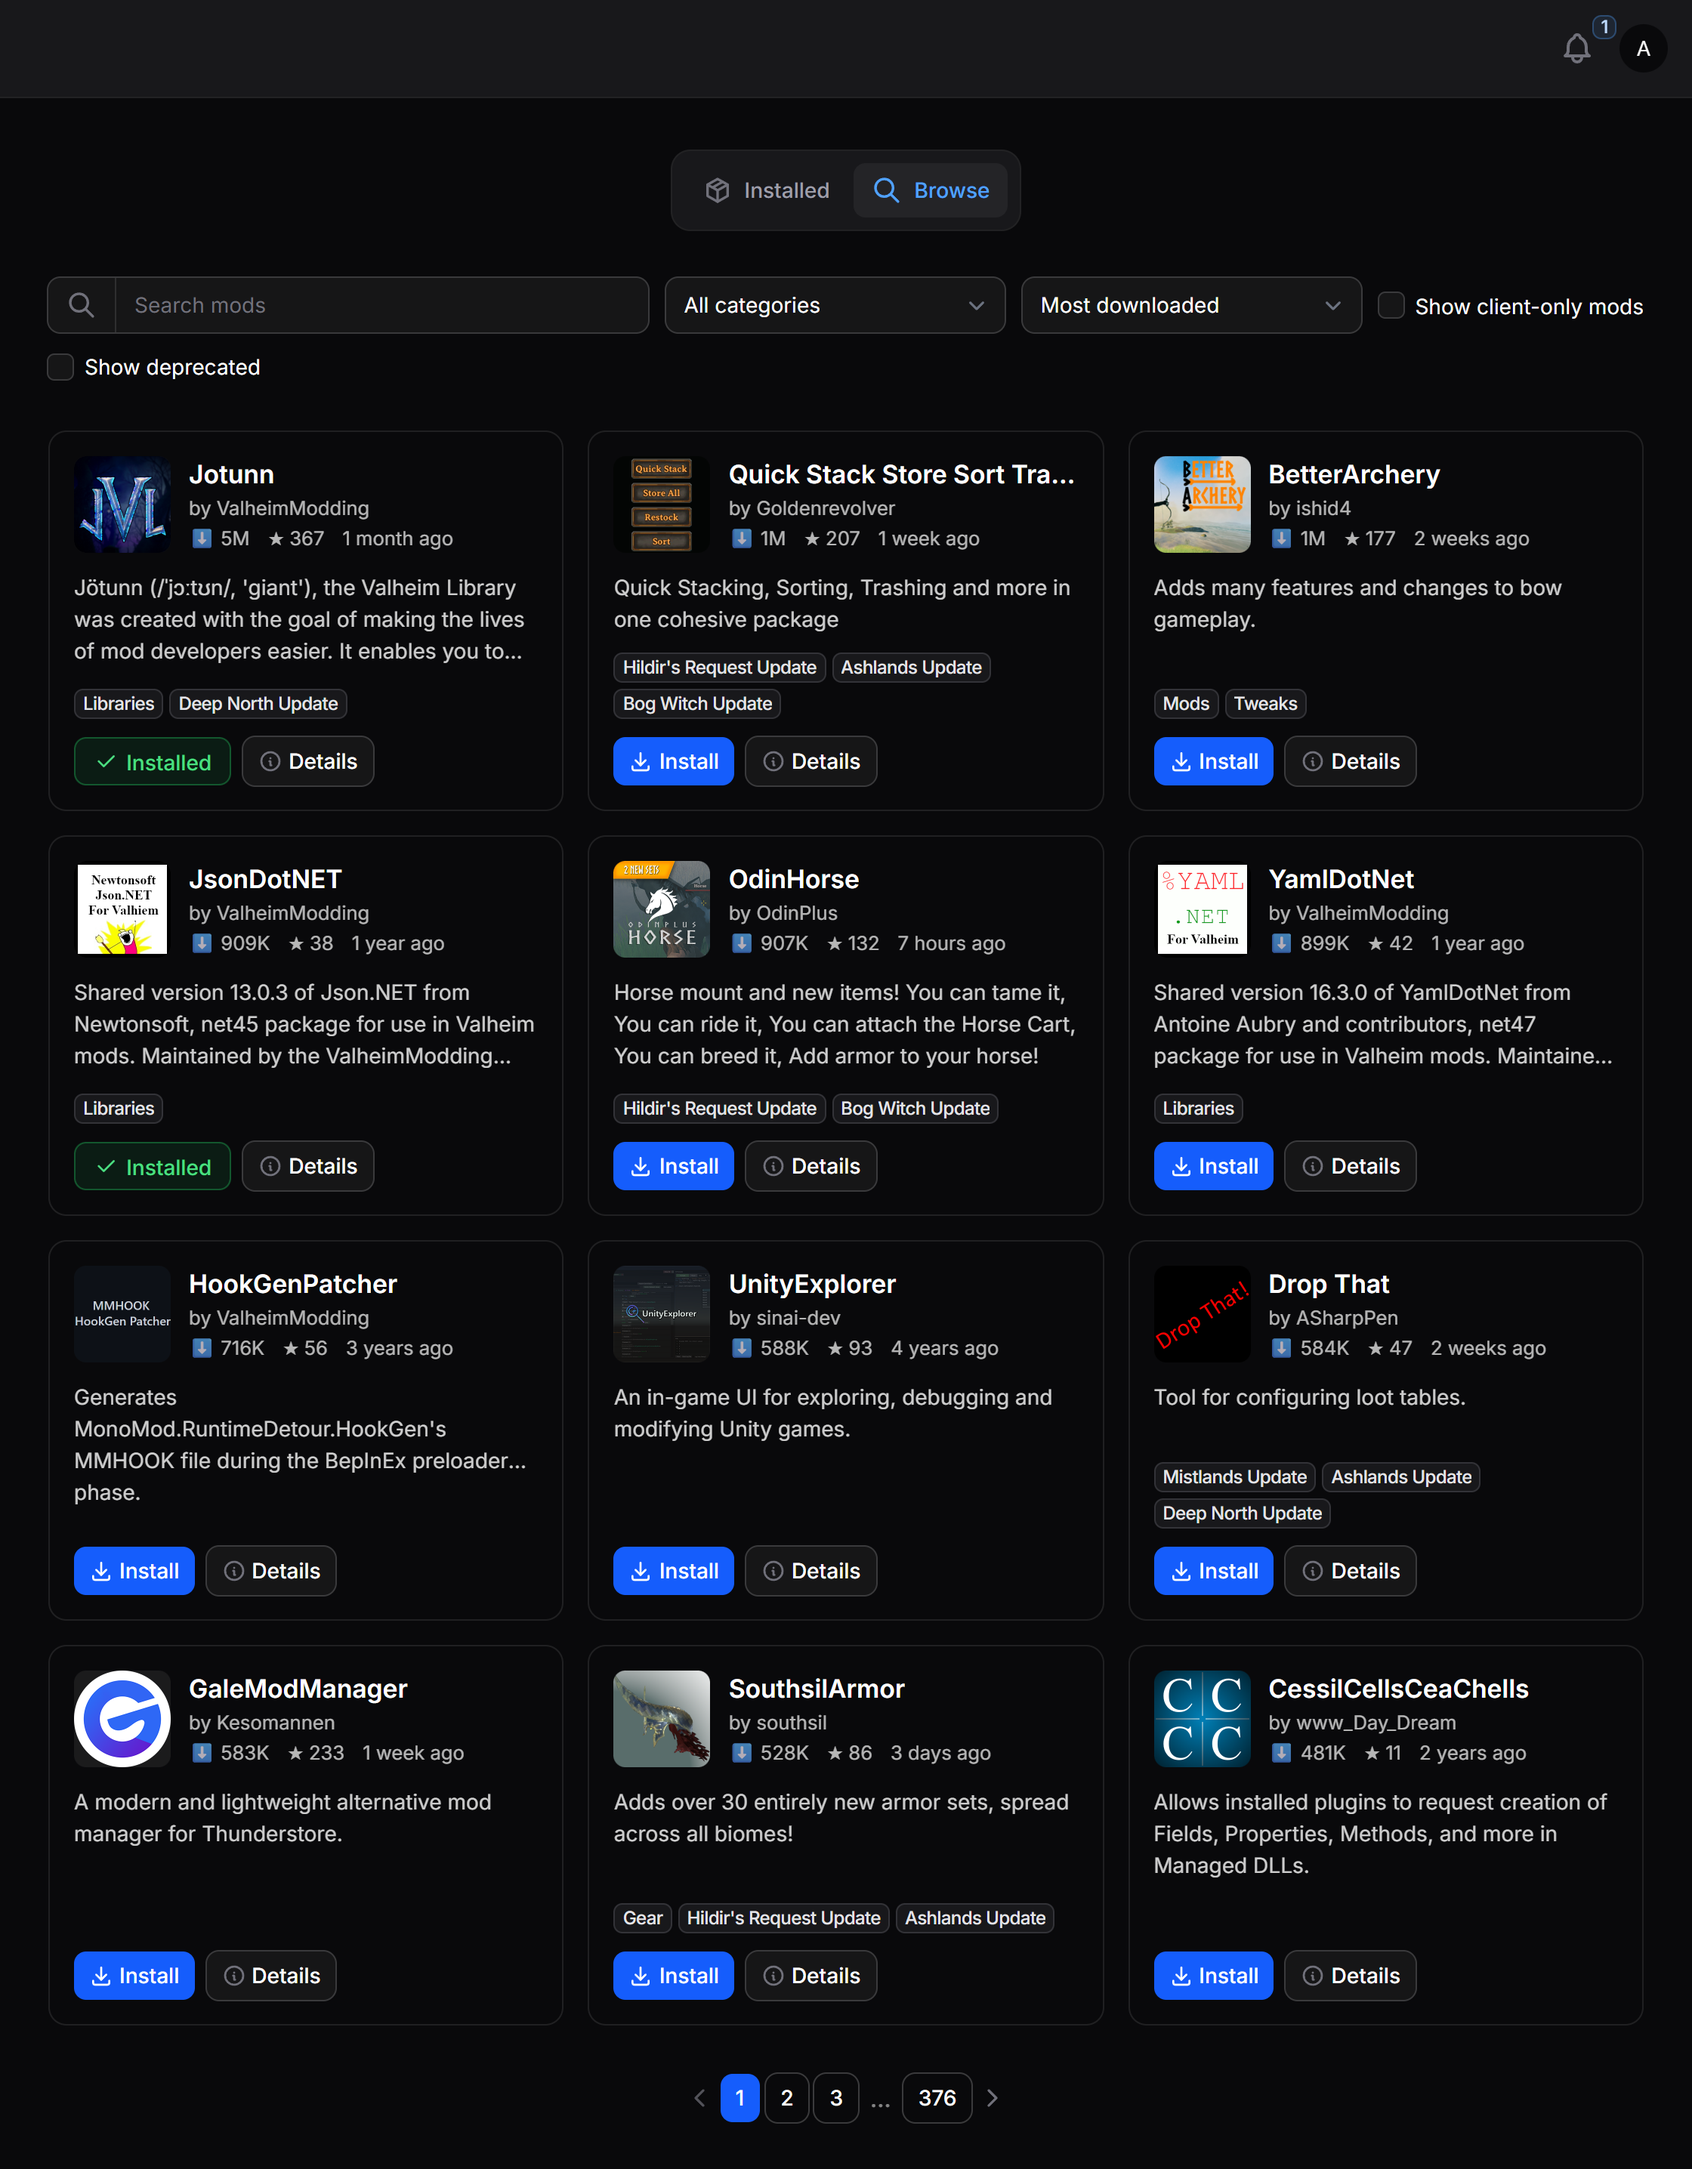
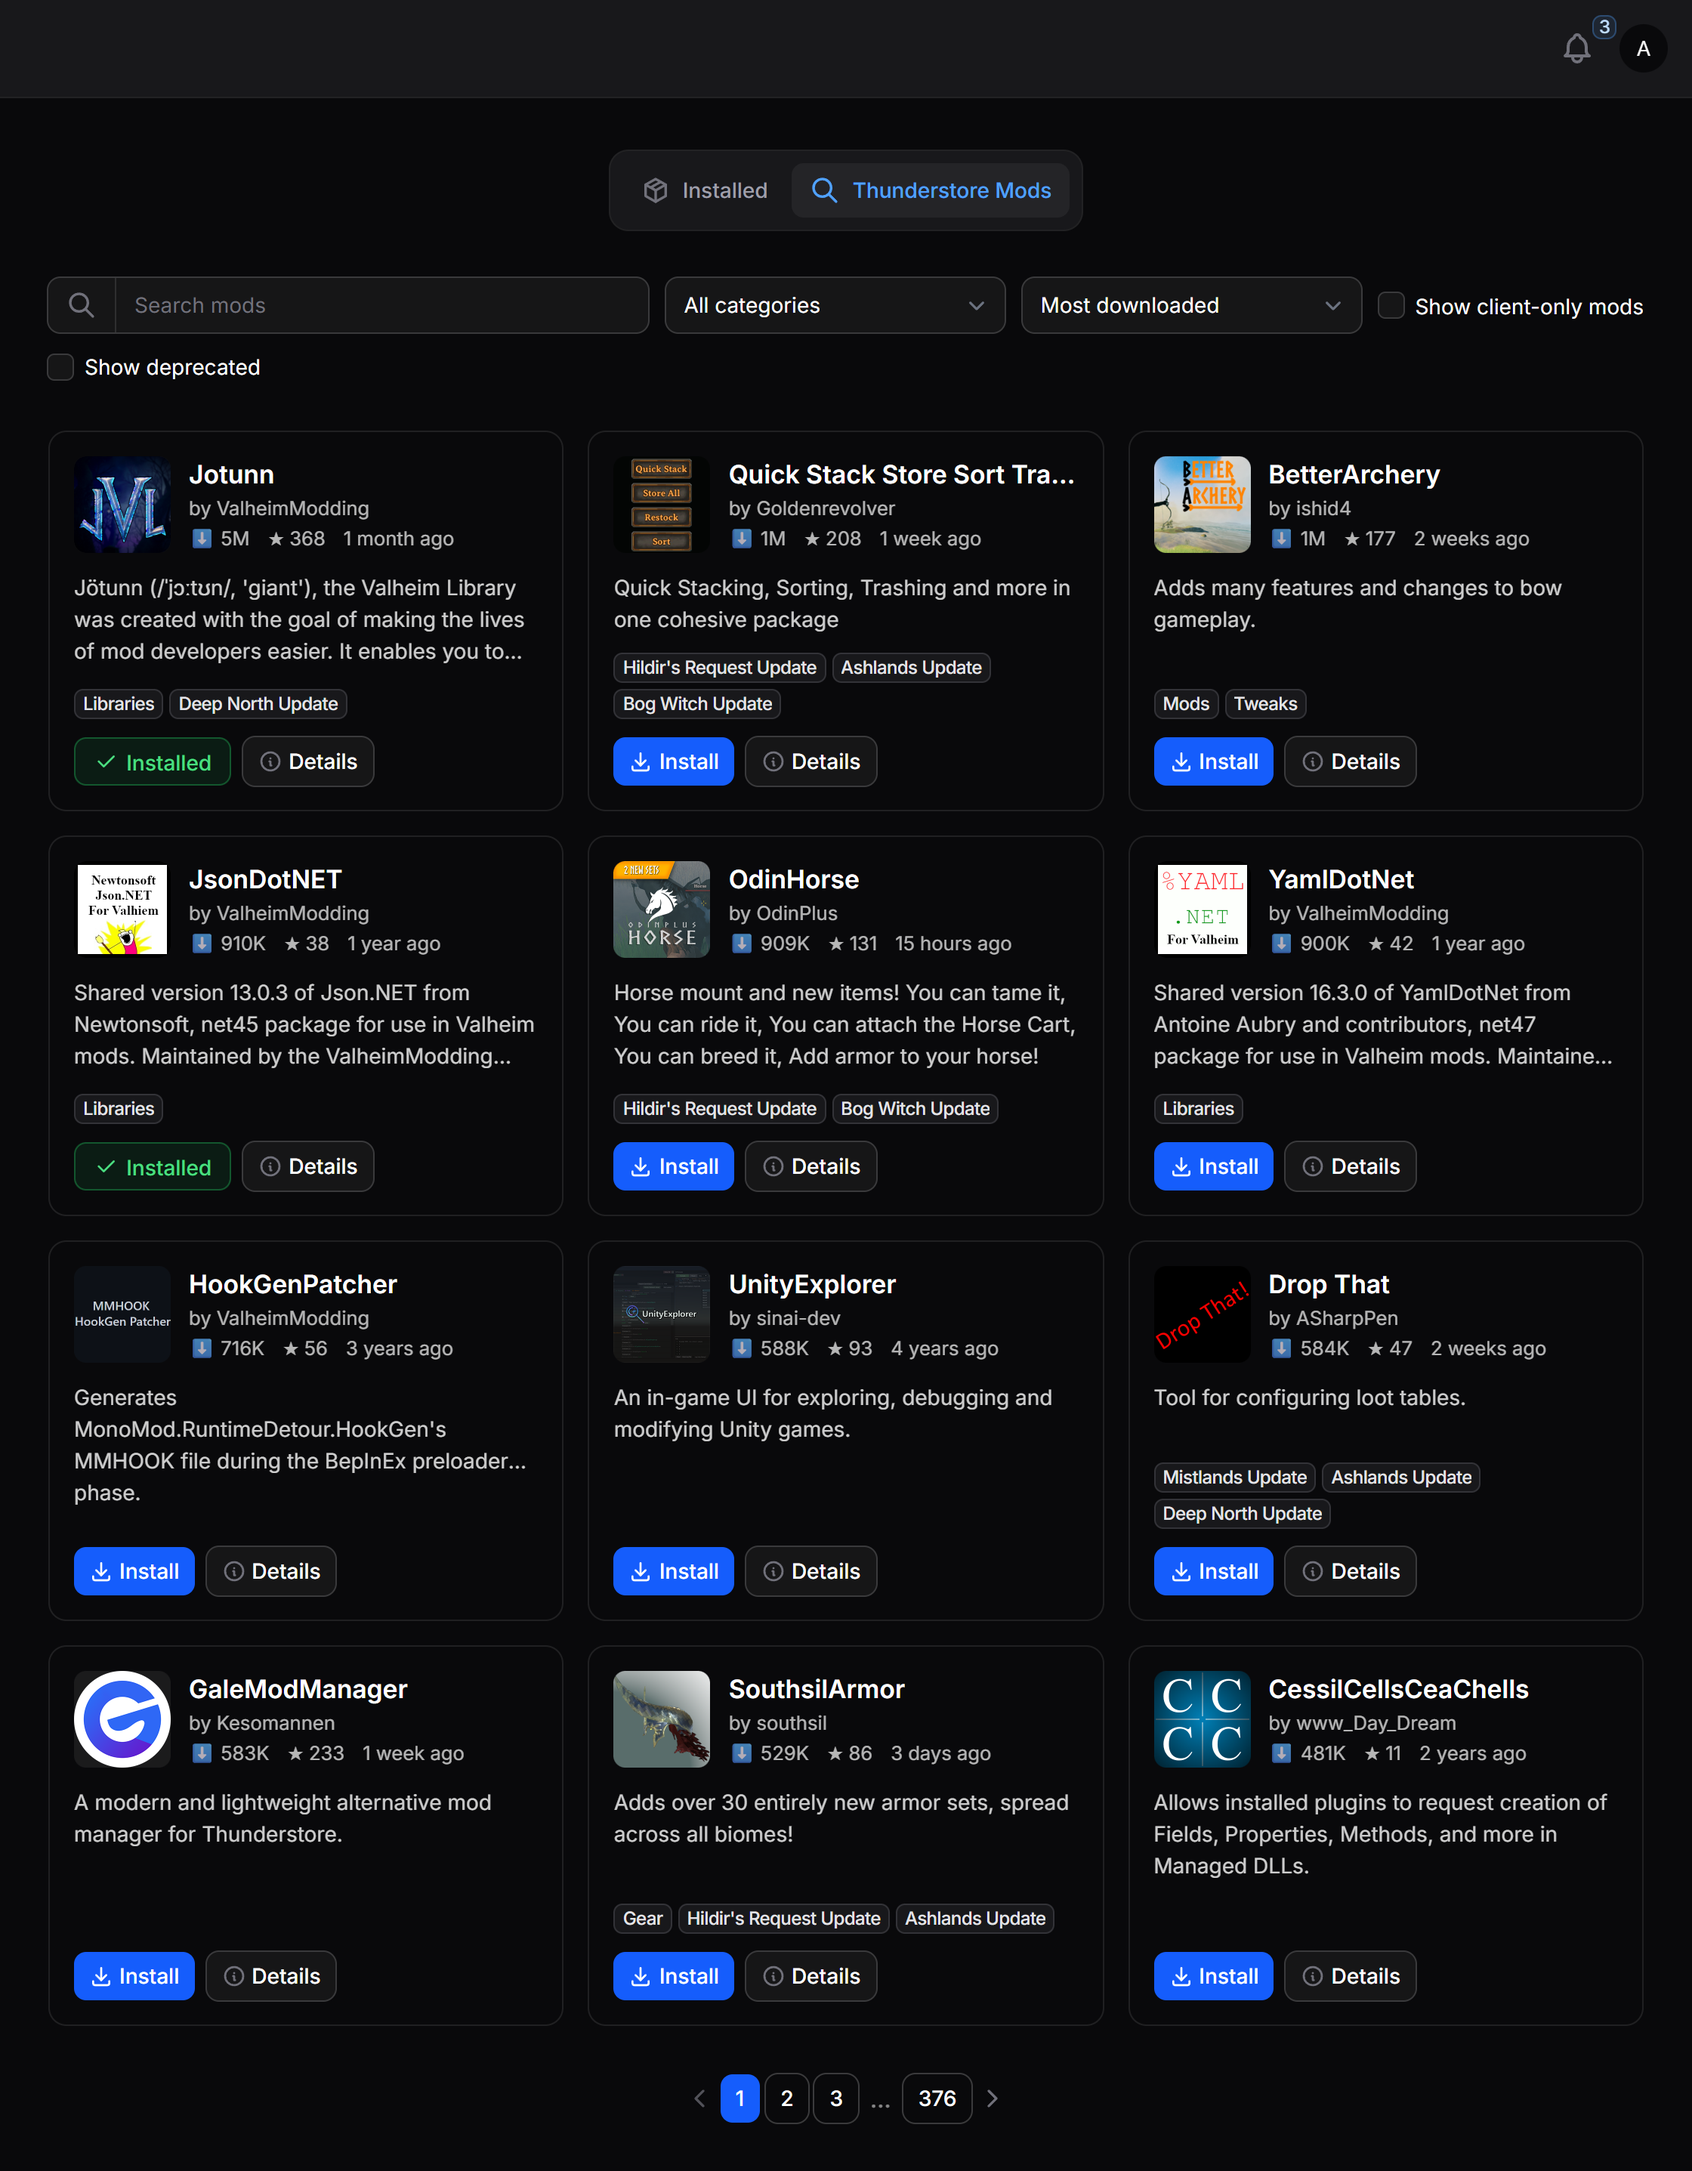
README screenshots of the mod manager with the new tabs and type filter

diff --git a/scripts/screenshots.py b/scripts/screenshots.py
@@ -55,7 +55,7 @@ with sync_playwright() as p:
     shot('mod-manager-installed', f'{BASE}/server/{SERVER}/mods')
 
     def browse():
-        page.get_by_text('Browse', exact=True).first.click()
+        page.locator('.fi-tabs-item').nth(1).click()
         page.wait_for_timeout(2500)
 
     shot('mod-manager-browse', f'{BASE}/server/{SERVER}/mods', browse)
